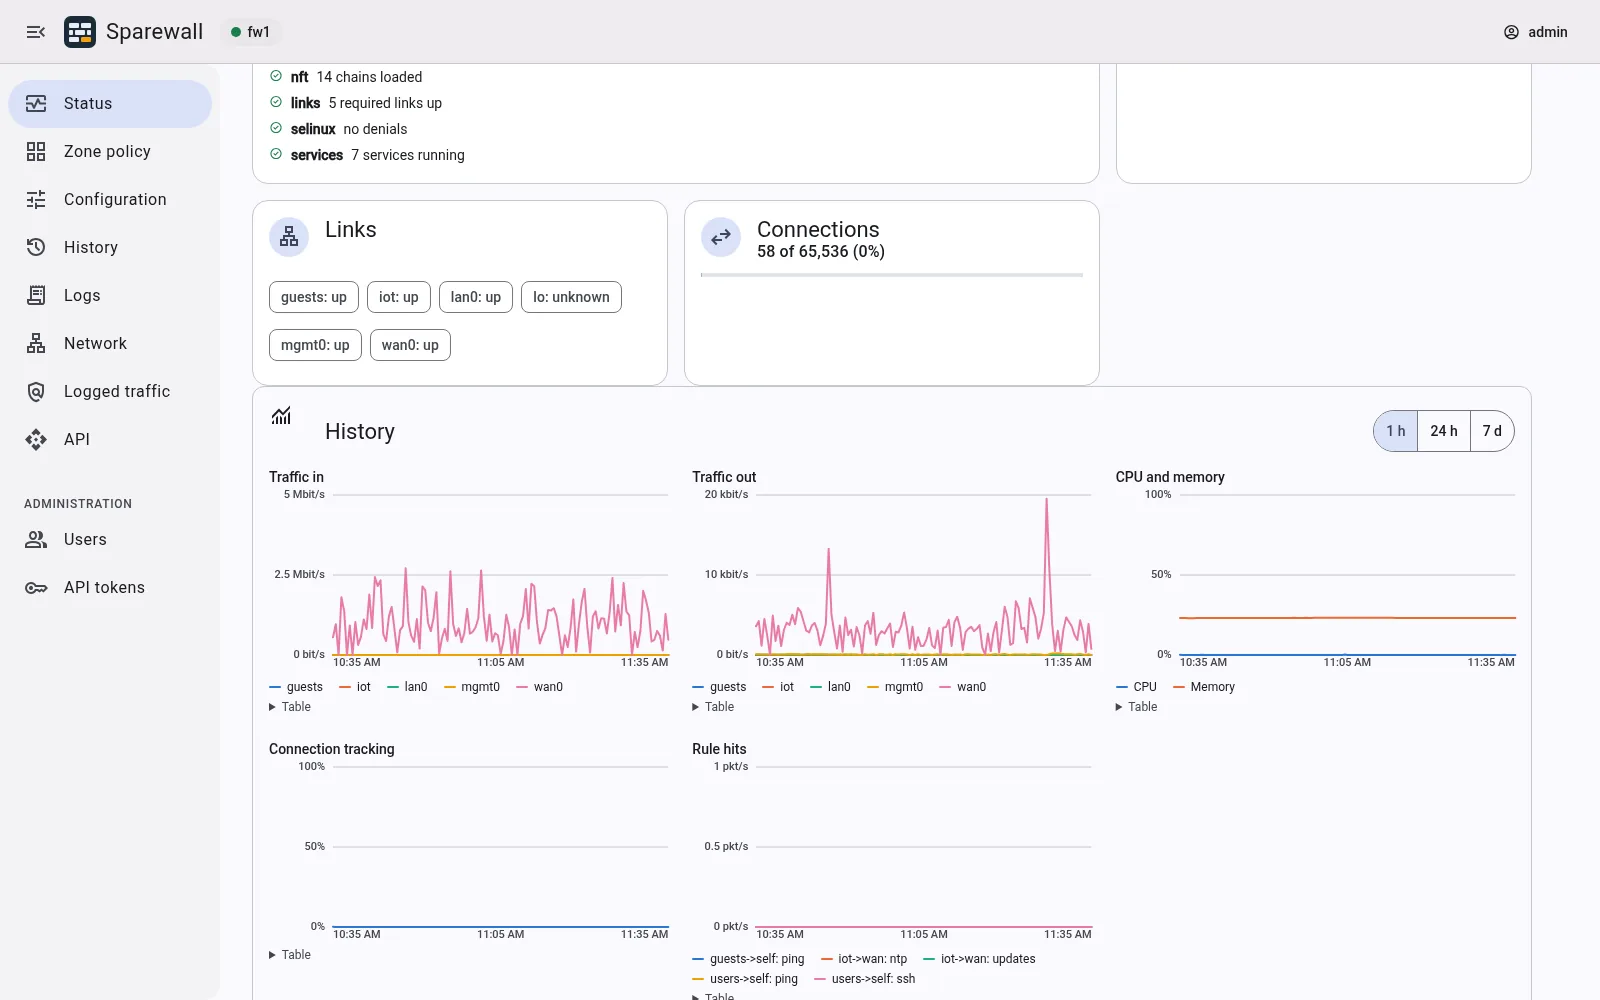
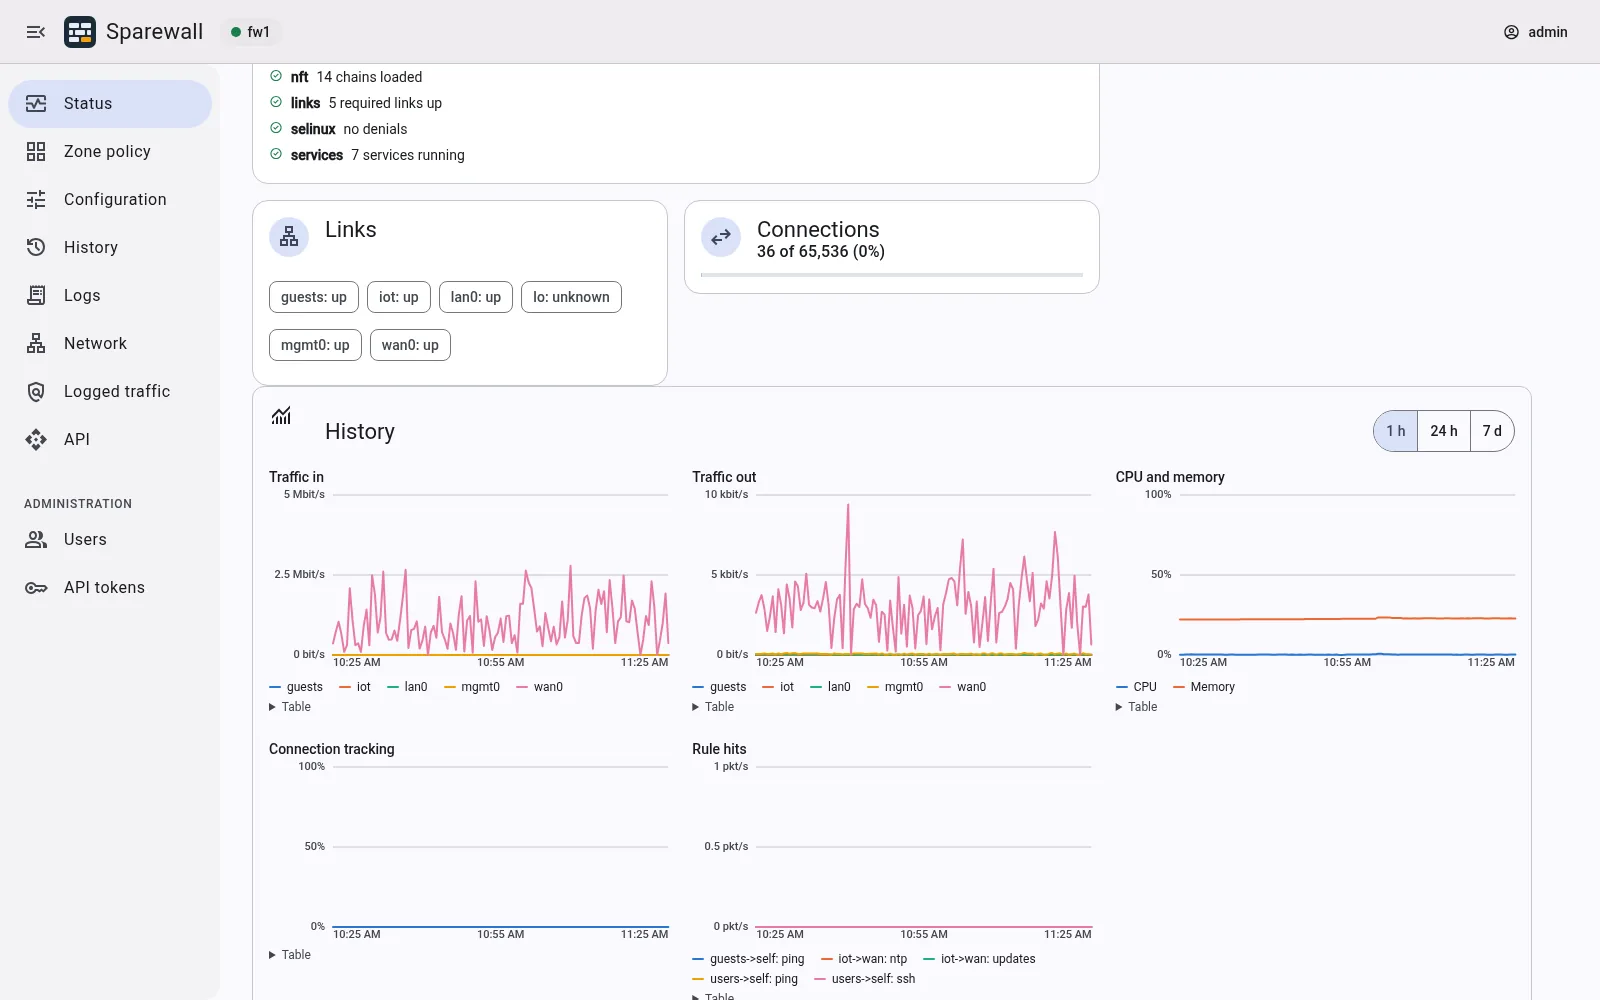
Retake the web UI screenshots from a 0.8.0 demo (#24)
- Network: sections are now listed down the side, and the DNS lookup's
  Server field is no longer cut off.
- Status: the cards are only as tall as their content.
- Configuration: the search finds settings that are new in 0.8.0.

The zone policy and history shots came out identical.

Changed region(s): [[0.4688, 0.527, 0.6875, 0.682], [0.1875, 0.558, 0.4375, 0.651], [0.75, 0.589, 0.8438, 0.62]]

diff --git a/index.html b/index.html
@@ -196,7 +196,7 @@
           <figure class="shot">
             <picture>
               <source srcset="assets/screenshots/network-dark.webp" media="(prefers-color-scheme: dark)">
-              <img src="assets/screenshots/network-light.webp" width="1600" height="1000" loading="lazy" alt="The network page's Tools tab: a DNS lookup of sparewall.org from the node, with its answer.">
+              <img src="assets/screenshots/network-light.webp" width="1600" height="1000" loading="lazy" alt="The network page's Tools section: a DNS lookup of sparewall.org from the node, with its answer.">
             </picture>
             <figcaption><strong>Network.</strong> Neighbours and routes, ping, traceroute and DNS lookups from the node, and packet captures.</figcaption>
           </figure>
